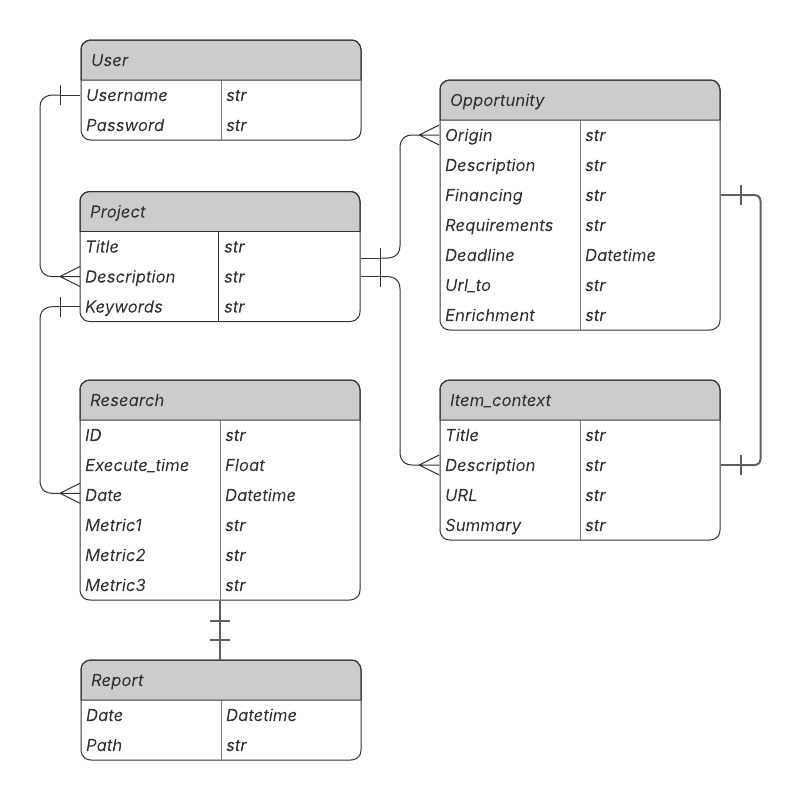
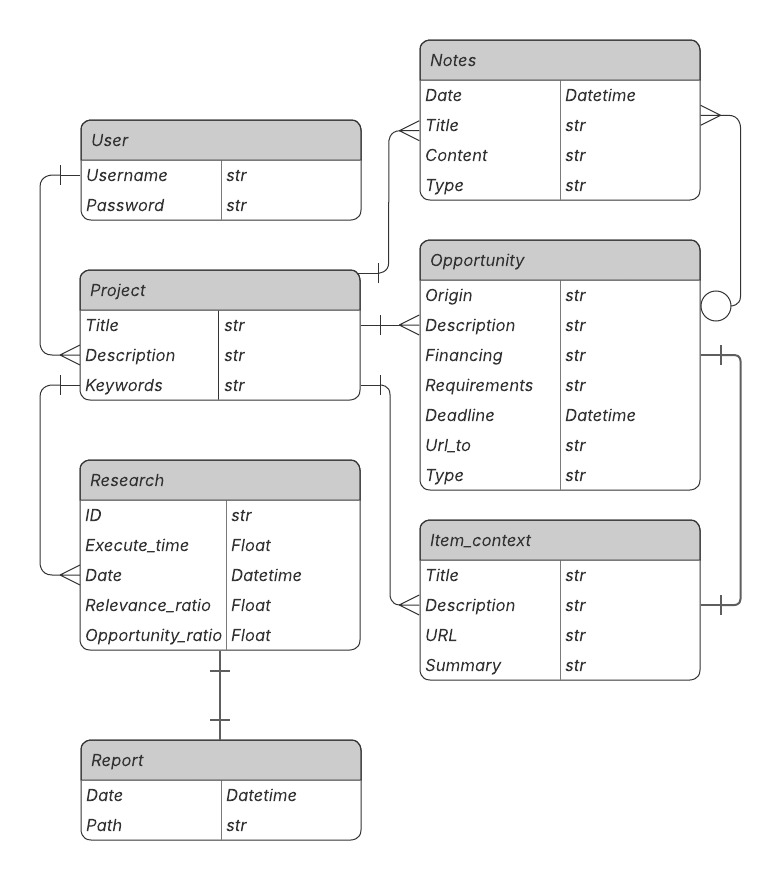
update doc

Changed region(s): [[0.0307, 0.0312, 0.9526, 0.9688], [0.0307, 0.1875, 0.0615, 0.3438]]

diff --git a/frontend/index.html b/frontend/index.html
@@ -5,6 +5,7 @@
     <meta name="viewport" content="width=device-width, initial-scale=1.0">
     <title>Dashboard de Vigilancia - COTECMAR</title>
     <link rel="stylesheet" href="css/style.css">
+    <link rel="shortcut icon" href="favicon.ico" type="image/x-icon">
 </head>
 <body>
     <header>

diff --git a/README.md b/README.md
@@ -1,16 +1,16 @@
 # Desarrollo de una herramienta de vigilancia tecnológica para identificar oportunidades de financiamiento de proyectos de investigación
 
-## Objetivo General
+## **Objetivo General**
 Desarrollar una herramienta automatizada que realice vigilancia tecnológica en la web, identificando convocatorias nacionales e internacionales de financiamiento para proyectos de investigación, y que genere informes explicativos sobre dichas oportunidades.
 
-## Objetivos Específicos
+## **Objetivos Específicos**
 *   Diseñar un sistema que explore fuentes oficiales y confiables (portales de agencias de financiación, universidades, organizaciones multilaterales, etc.).
 *   Implementar algoritmos de web scraping y/o APIs para recolección automatizada de datos.
 *   Clasificar las oportunidades encontradas por áreas de investigación, requisitos, fechas y tipo de financiamiento.
 *   Generar reportes periódicos (semanales o mensuales) con resúmenes ejecutivos de las nuevas convocatorias.
 *   Permitir búsquedas manuales y suscripciones personalizadas a temas de interés.
 
-## Entregables
+## **Entregables**
 *   Módulo funcional de recolección de datos desde fuentes web (scraper/API).
 *   Base de datos estructurada de convocatorias vigentes e históricas.
 *   Interfaz web o de escritorio para consultas y visualización de oportunidades.
@@ -20,10 +20,10 @@ Desarrollar una herramienta automatizada que realice vigilancia tecnológica en 
 *   Informe final del desarrollo del sistema.
 
 
-## Propuesta de solucion
+## **Propuesta de Solución**
 Para cumplir con el objetivo general, se propone el desarrollo de una plataforma tecnológica avanzada que integra agentes de inteligencia artificial con una arquitectura de microservicios moderna y escalable. Esta solución está diseñada para automatizar por completo el ciclo de vigilancia tecnológica, desde la recolección masiva de datos en la web hasta la generación de informes ejecutivos. El sistema operará de forma asíncrona para garantizar un alto rendimiento y una experiencia de usuario fluida, permitiendo a los investigadores centrarse en sus propuestas y no en la búsqueda manual de financiación.
 
-### Requerimientos
+### **Requerimientos**
 Los requerimientos para el optimo funcionamiento del sistema son los siguientes:
 
 #### Funcionales
@@ -40,11 +40,11 @@ Los requerimientos para el optimo funcionamiento del sistema son los siguientes:
 -   Implementación de MicroServicios.
 -   Manejo asíncrono de tareas (Investigaciones de proyectos se realizarán en segundo plano).
 
-### Arquitectura y Flujo de Tecnologías
+### **Arquitectura y Flujo de Tecnologías**
 
 La arquitectura se basa en un ecosistema de **MicroServicios orquestados por Docker**, lo que permite que cada componente del sistema opere de forma independiente, sea escalable y fácil de mantener. A continuación, se detalla la tecnología asociada a cada servicio y cómo interactúan entre sí.
 
-#### Stack Tecnológico por Servicio
+#### **Stack Tecnológico por Servicio**
 
 | Componente                | Tecnologías Clave                                       | Responsabilidad                                                                                                     |
 | :------------------------ | :------------------------------------------------------ | :------------------------------------------------------------------------------------------------------------------ |
@@ -56,11 +56,12 @@ La arquitectura se basa en un ecosistema de **MicroServicios orquestados por Doc
 | **Orquestación**          | **Docker, Docker-Compose**                              | Gestiona el ciclo de vida de todos los servicios, define las redes, volúmenes y variables de entorno para el despliegue. |
 
 
-#### Servicios Externos
+#### **Servicios Externos**
 
 Para realizar la vigilancia tecnológica y el enriquecimiento de datos, el sistema se apoya en un conjunto de APIs y tecnologías externas que son fundamentales para su operación.
 
 *   **Gemini API**: Es el núcleo de la inteligencia artificial del sistema. Este modelo de lenguaje avanzado de Google se utiliza para procesar el texto no estructurado de las convocatorias encontradas. Sus tareas principales incluyen: resumir los objetivos de la convocatoria, extraer datos clave como fechas límite, montos de financiamiento y requisitos de elegibilidad, y clasificar las oportunidades por área de investigación.
+
 
 *   **Brave API / Tavily API**: Son los motores de búsqueda que alimentan al sistema. Se utilizan para realizar consultas web automatizadas y descubrir nuevas convocatorias en portales que no ofrecen feeds RSS. Tavily está especialmente optimizado para ser utilizado por agentes de IA, proporcionando resultados de búsqueda concisos y relevantes que facilitan el posterior análisis por parte de Gemini.
 
@@ -69,7 +70,7 @@ Para realizar la vigilancia tecnológica y el enriquecimiento de datos, el siste
 *   **LangSmith**: Es una plataforma de observabilidad y depuración para aplicaciones de modelos de lenguaje. Se integra con LangChain para ofrecer una trazabilidad completa de las operaciones del Worker. Permite a los desarrolladores monitorear cada paso del proceso de investigación (búsquedas, llamadas a la API de Gemini, procesamiento de datos), facilitando la identificación de errores, la optimización de los *prompts* y la mejora continua de la fiabilidad del sistema.
 
 
-#### Flujo de Trabajo e Interacción entre Servicios
+#### **Flujo de Trabajo e Interacción entre Servicios**
 
 El funcionamiento del sistema sigue un flujo lógico y asíncrono para garantizar una experiencia de usuario fluida y un procesamiento eficiente.
 
@@ -96,42 +97,56 @@ Otra forma de ver el flujo de trabajo es mediente la siguiente ilustración:
 ![Diagrama de flujo del sistema](/images/flow_search_system.png)
 
 
-#### Modelo de Datos
+#### **Modelo de Datos**
 
-La persistencia de los datos se gestiona a través de una base de datos relacional PostgreSQL, diseñada para reflejar lógicamente el flujo de trabajo de la aplicación. Este modelo garantiza que toda la información, desde los proyectos de los usuarios hasta las oportunidades identificadas, esté organizada, relacionada y sea fácilmente accesible.
+La persistencia y la estructura de la información se gestionan a través de una base de datos relacional PostgreSQL. El diseño del modelo de datos está pensado para reflejar de manera lógica las interacciones entre los usuarios, los proyectos de investigación, las oportunidades de financiamiento y los resultados generados por el sistema. Esta organización garantiza la integridad de los datos, facilita las consultas complejas y asegura la escalabilidad de la plataforma.
 
-##### Diagrama Entidad-Relación (ERD)
+##### **Diagrama Entidad-Relación (ERD)**
 
 ![Diagrama de la Base de Datos](/images/ER.jpeg)
 
+##### **Descripción de las Entidades**
 
-##### Descripción de las Entidades
+A continuación, se detalla el propósito de cada una de las tablas principales del sistema:
 
-*   **User**: Almacena las credenciales de los usuarios para la autenticación y gestión de acceso al sistema.
+*   **User**: Almacena la información esencial para la autenticación y gestión de los usuarios, incluyendo su nombre de usuario y contraseña (almacenada de forma segura mediante hashing).
 
-*   **Project**: Representa el objeto de vigilancia definido por el usuario, conteniendo el título, la descripción y las palabras clave que sirven como entrada para los agentes de IA.
+*   **Project**: Representa el núcleo de la vigilancia tecnológica. Cada registro contiene la información clave de un proyecto de investigación definido por el usuario, como el `Título`, la `Descripción` y las `Palabras clave` (`Keywords`). Estos campos son la entrada principal para los agentes de IA que realizan las búsquedas.
 
-*   **Research**: Registra cada ejecución del flujo de investigación para un proyecto. Funciona como un historial, guardando métricas clave como la fecha y el tiempo de ejecución.
+*   **Notes**: Proporciona un espacio flexible para que los usuarios registren anotaciones clave. Cada nota está intrínsecamente ligada a un **`Project`**, sirviendo para documentar acciones, hallazgos importantes o ideas surgidas durante el proceso de investigación. Opcionalmente, una nota puede estar asociada directamente a una **`Opportunity`** específica para añadir contexto o registrar los siguientes pasos sobre una convocatoria particular.
 
-*   **Item_context**: Contiene los resultados normalizados de las búsquedas web. Cada registro es una fuente de información (un enlace con su título y descripción) que ha sido considerada relevante para ser analizada en profundidad.
+*   **Opportunity**: Es la entidad central donde se almacenan las oportunidades de financiamiento identificadas y procesadas por el sistema. Contiene datos estructurados y extraídos por la IA, como el `Origen` de la convocatoria, `Descripción`, `Financiamiento`, `Requisitos`, `Fecha límite` (`Deadline`) y la `URL` original.
 
-*   **Opportunity**: Almacena los datos estructurados y extraídos por el agente de IA. Cada registro es una oportunidad de financiación concreta, con detalles como su origen, descripción, tipo de financiamiento y fechas límite.
+*   **Item_context**: Funciona como un repositorio de las fuentes de información brutas que los agentes de IA han considerado relevantes durante una búsqueda. Cada registro contiene el `Título`, `Descripción`, `URL` y un `Resumen` de una página web o documento analizado, sirviendo como la evidencia que respalda una `Opportunity` encontrada.
 
-*   **Report**: Guarda una referencia a los informes generados al finalizar una investigación, incluyendo la fecha de creación y la ruta de acceso al archivo.
+*   **Research**: Actúa como un registro histórico de cada ejecución del proceso de búsqueda para un proyecto. Almacena metadatos sobre el proceso, como la `Fecha` y `Hora` de ejecución (`Execute_time`), así como métricas de rendimiento como el `Relevance_ratio` y el `Opportunity_ratio`.
 
-##### Relaciones Clave
+*   **Report**: Guarda una referencia a los informes generados al finalizar un ciclo de investigación. Incluye la `Fecha` de creación y la ruta de acceso (`Path`) al archivo del reporte, permitiendo un acceso rápido a los resultados consolidados.
 
-*   Un **`User`** puede tener múltiples **`Projects`**.
-*   Un **`Project`** puede tener múltiples **`Research`** (ejecuciones) a lo largo del tiempo.
-*   Cada **`Research`** produce un **`Report`** final.
-*   Tanto los **`Item_context`** como las **`Opportunities`** están vinculados a un **`Project`** para mantener todo el contexto de la investigación organizado.
+##### **Relaciones Clave**
+
+Las entidades están interconectadas para mantener la coherencia y el contexto de los datos a lo largo del flujo de trabajo de la aplicación:
+
+*   Un **`User`** puede ser propietario y gestionar múltiples **`Projects`**.
+*   Un **`Project`** es el contenedor principal de la actividad de vigilancia y puede tener asociados:
+    *   Múltiples ejecuciones de **`Research`** a lo largo del tiempo.
+    *   Múltiples **`Opportunities`** que se han identificado como relevantes.
+    *   Múltiples **`Notes`**, que sirven como bitácora de hallazgos y acciones relacionadas con el proyecto.
+*   Cada **`Research`** genera un único **`Report`** final.
+*   Una **`Opportunity`** se deriva de la información contenida en uno o varios **`Item_context`**.
+*   La relación de las **`Notes`** es la siguiente:
+    *   Son creadas por un **`User`**.
+    *   Siempre pertenecen a un **`Project`**.
+    *   Opcionalmente, pueden hacer referencia a una **`Opportunity`** para añadirle comentarios específicos.
 
 
-#### Estrategia de Seguridad y Autenticación
+#### **Estrategia de Seguridad y Autenticación**
 
 La seguridad de los datos y el control de acceso son componentes críticos de la arquitectura del sistema. Dado que la plataforma gestionará información específica de los usuarios (proyectos de investigación, resultados, reportes), se implementará un esquema de seguridad robusto basado en tokens para proteger la API y garantizar que cada usuario solo pueda acceder a sus propios recursos.
 
 La estrategia de seguridad se fundamenta en los siguientes pilares:
+
+![Diagrama de flujo de autenticacion](/images/JWT.jpeg)
 
 ##### **1. Autenticación basada en Tokens (JWT)**
 
@@ -171,10 +186,66 @@ El proceso de creación de nuevas cuentas también seguirá prácticas de seguri
 *   La lógica del backend validará los datos de entrada (ej. formato de email, complejidad de la contraseña).
 *   Como se mencionó anteriormente, la contraseña proporcionada por el usuario será inmediatamente procesada por un algoritmo de **hashing** antes de ser almacenada en la base de datos. Este es el principio de seguridad más importante para la protección de credenciales.
 
+#### **Propuesta Visual**
+
+La interfaz de usuario (UI) y la experiencia de usuario (UX) están diseñadas para ser limpias, intuitivas y funcionales, permitiendo a los investigadores centrarse en la gestión de sus proyectos sin distracciones. Se ha optado por un diseño moderno con un tema oscuro para reducir la fatiga visual y resaltar los elementos importantes de la interfaz.
+
+Es importante señalar que las imágenes presentadas a continuación corresponden a un diseño conceptual inicial y están sujetas a cambios. Si bien la disposición específica de algunos componentes podría variar durante el desarrollo para mejorar el flujo de trabajo, el estilo artístico general, la paleta de colores, la tipografía y la estética moderna se mantendrán como la línea base del producto final.
+
+A continuación, se presenta el flujo visual de la aplicación a través de sus pantallas clave.
+
+##### **1. Autenticación y Acceso**
+
+El acceso a la plataforma comienza con una pantalla de inicio de sesión minimalista. Los nuevos usuarios pueden registrarse a través de un formulario sencillo que solicita únicamente la información necesaria para crear la cuenta.
+
+| Inicio de Sesión                                | Creación de Cuenta                                 |
+| :---------------------------------------------- | :------------------------------------------------- |
+| ![Login de Usuario](/images/login.png)          | ![Registro de Usuario](/images/register.png)       |
+
+##### **2. Dashboard Principal de Proyectos**
+
+Una vez autenticado, el usuario es recibido por el "Dashboard de Proyectos". Esta es la vista central donde se listan todos los proyectos de vigilancia activos. Cada proyecto se muestra en una tarjeta que resume su estado, el número de oportunidades encontradas y la fecha de la última búsqueda. Desde aquí, el usuario puede gestionar proyectos existentes o iniciar uno nuevo.
+
+![Dashboard de Proyectos](/images/deashboard.png)
+
+##### **3. Creación y Gestión de Proyectos**
+
+Al hacer clic en "+ Nuevo Proyecto", se despliega un modal que guía al usuario para definir el alcance de la vigilancia. Aquí se introduce el `Título`, la `Descripción` y las `Palabras Clave` que los agentes de IA utilizarán como base para la búsqueda.
+
+![Creación de un Nuevo Proyecto](/images/create_proyect.png)
+
+##### **4. Vista Detallada del Proyecto y Oportunidades**
+
+Al seleccionar un proyecto, el usuario accede a su panel de control específico. Esta vista presenta una descripción detallada del proyecto y tres pestañas principales:
+
+*   **Oportunidades:** Muestra las convocatorias de financiamiento encontradas, presentadas en tarjetas claras y concisas.
+*   **Historial de Búsquedas:** Registra cada ejecución de la investigación, mostrando su fecha, duración y estado.
+*   **Fuentes Analizadas:** Proporciona transparencia sobre las URLs y fuentes que el sistema ha consultado.
+
+![Vista de un Proyecto Específico](/images/details.proyect.png)
+
+##### **5. Proceso de Búsqueda Asíncrona**
+
+Cuando se inicia una nueva búsqueda, la interfaz proporciona retroalimentación visual en tiempo real, informando al usuario que el proceso se está ejecutando en segundo plano. Esto confirma la naturaleza asíncrona del sistema, permitiendo al usuario seguir navegando mientras los workers procesan la solicitud. Una vez completada, la ejecución aparece registrada en el historial.
+
+![Flujo de Búsqueda Activa](/images/flow_activate.png)
+
+##### **6. Detalles de la Oportunidad**
+
+Para explorar una convocatoria en profundidad, el usuario puede hacer clic en "Ver Detalles" en cualquiera de las tarjetas de oportunidad. Esto abre un modal con toda la información estructurada y extraída por la IA, como la `Fecha Límite`, `Tipo de Financiación`, `URL` original, `Descripción` y `Requisitos Principales`, permitiendo una evaluación rápida y eficiente.
+
+![Detalles de una Oportunidad de Financiamiento](/images/details_opportunities.png)
+
+
+##### **Prototipo Interactivo (Demo)**
+
+Para una experiencia más interactiva, se ha desplegado una maqueta (comúnmente llamada *dummy* o *mockup*) de la interfaz. Puedes navegar y explorar el flujo visual del prototipo, aunque sin funcionalidad de backend, en el siguiente enlace:
+
+**[Explorar la Demo en Vivo](https://carlosdac2020.github.io/FINCOR/)**
 
 
 
-## Metodología y Estrategias de Trabajo
+## **Metodología y Estrategias de Trabajo**
 Para garantizar el cumplimiento de los objetivos y la entrega de una solución robusta y escalable, el proyecto se gestionará bajo un marco de trabajo ágil, combinando fases de desarrollo bien definidas con estrategias técnicas especializadas en la recolección y procesamiento inteligente de datos.
 
 ### **Metodología de Desarrollo**
@@ -241,3 +312,8 @@ Para la ejecución de las fases de desarrollo, se implementarán las siguientes 
 *   **Arquitectura Asíncrona y Orientada a Eventos:** El núcleo del sistema se basará en el patrón productor-consumidor. La API de Django actuará como productora, enviando tareas a la cola de Redis. Los *Workers* de Celery (consumidores) tomarán estas tareas y las ejecutarán en segundo plano. Este enfoque es fundamental para:
     *   **No Bloquear al Usuario:** El usuario recibe una respuesta inmediata de la API, mientras que el procesamiento pesado ocurre de forma asíncrona.
     *   **Escalabilidad y Resiliencia:** Es posible añadir más *Workers* para aumentar la capacidad de procesamiento sin alterar el resto del sistema. Si un *Worker* falla, la tarea puede ser reintentada sin afectar la experiencia del usuario.
+
+
+
+
+
